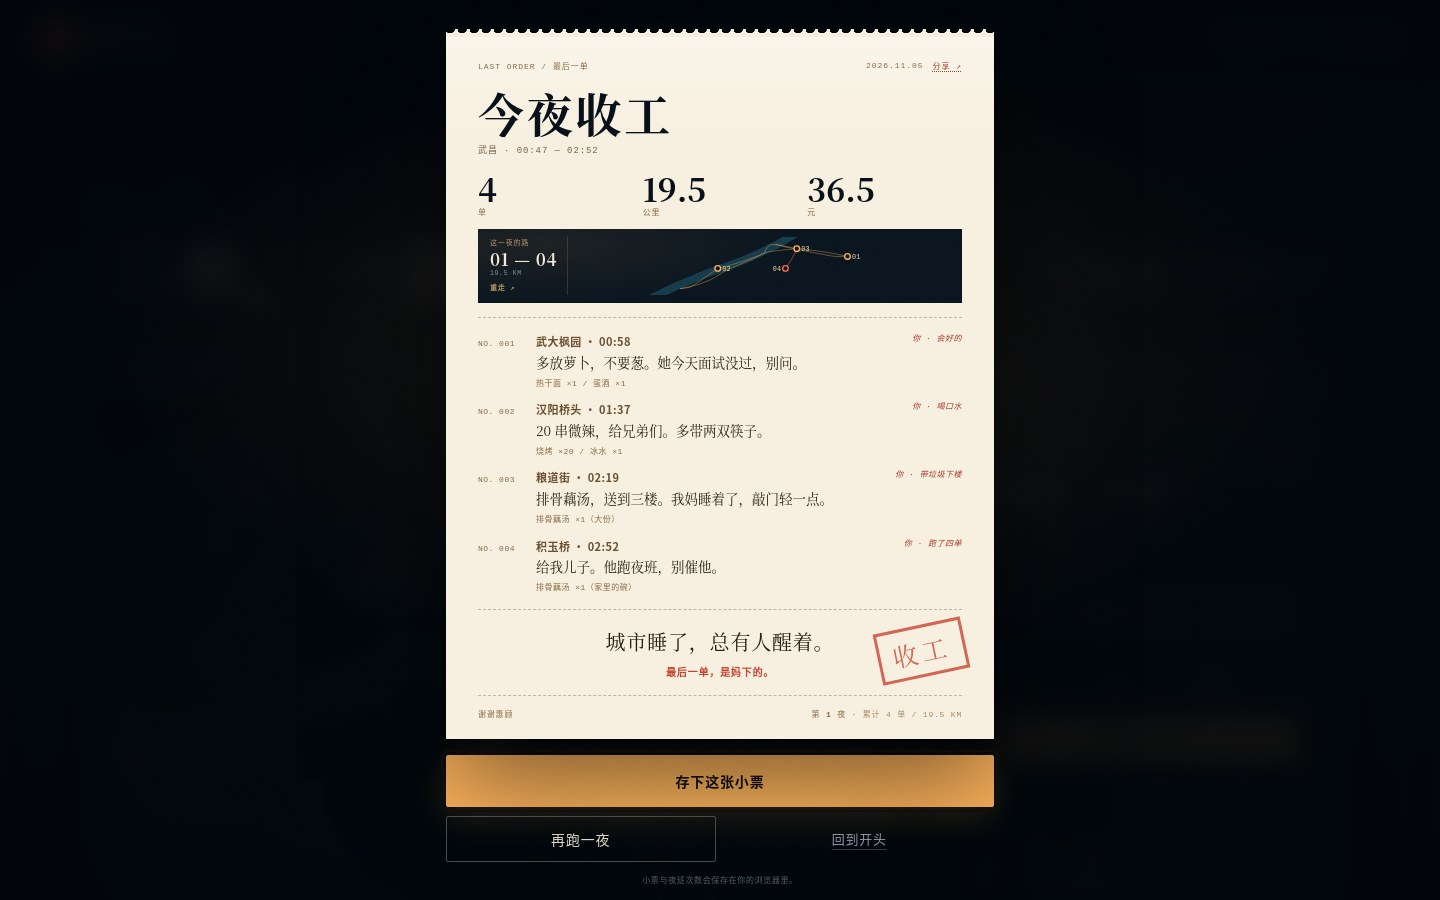
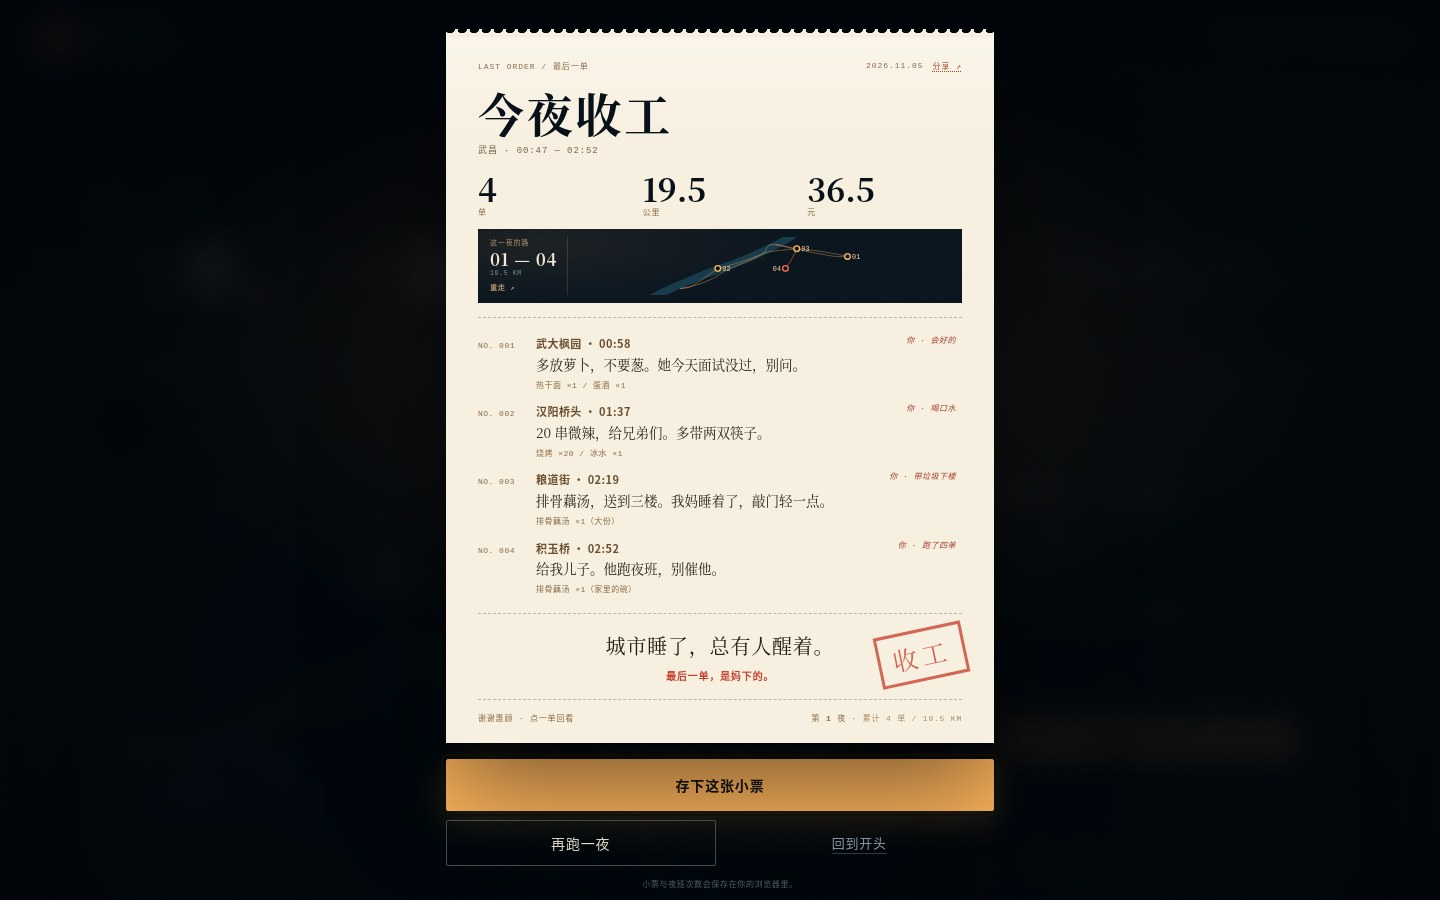
feat: 收工纸票四单可点回看对应小票

diff --git a/assets/js/app.js b/assets/js/app.js
@@ -1054,10 +1054,12 @@
     renderSummaryRoute();
 
     el.summaryTickets.innerHTML = tickets.map(function (t) {
-      return '<li><span class="r-no">' + escape(t.no) + '</span>' +
-        '<div class="r-body"><b>' + escape(t.place) + ' · ' + escape(t.time) +
+      return '<li><button class="r-row" type="button" data-order="' + escape(t.orderId) + '" ' +
+        'aria-label="回看 ' + escape(t.no) + ' · ' + escape(t.place) + ' 的小票">' +
+        '<span class="r-no">' + escape(t.no) + '</span>' +
+        '<span class="r-body"><b>' + escape(t.place) + ' · ' + escape(t.time) +
         (t.choice ? '<em class="r-choice">你 · ' + escape(t.choice) + '</em>' : '') +
-        '</b>' + escape(t.note) + '<span>' + escape(t.items) + '</span></div></li>';
+        '</b>' + escape(t.note) + '<span>' + escape(t.items) + '</span></span></button></li>';
     }).join("");
   }
 
@@ -1077,12 +1079,13 @@
     setTimeout(function () { el.saveReceipt.focus({ preventScroll: true }); }, 80);
   }
 
-  function closeSummary() {
+  function closeSummary(toOrderId) {
     stopRoutePlay();
     el.summary.hidden = true;
     state.dialog = null;
     state.phase = state.tickets.length === 4 ? "done" : "idle";
     var back = state.summaryReturn;
+    var target = typeof toOrderId === "string" ? toOrderId : null;
     state.summaryReturn = null;
     lockScroll(false);
     document.removeEventListener("keydown", onDialogKeydown);
@@ -1091,7 +1094,9 @@
     renderHeadStatus();
     updateChrome();
     syncHeroCta();
-    if (back) {
+    if (target) {
+      setTimeout(function () { revealTicket(target); }, 60);
+    } else if (back) {
       back.scrollIntoView({ block: "start", behavior: reduceMotion ? "auto" : "smooth" });
       setTimeout(function () { el.closeSummary.blur(); }, 80);
     } else {
@@ -1720,6 +1725,11 @@
     el.saveReceipt.addEventListener("click", saveReceiptImage);
     el.replayBtn.addEventListener("click", replayNight);
     el.closeSummary.addEventListener("click", closeSummary);
+    el.summaryTickets.addEventListener("click", function (ev) {
+      var row = ev.target.closest ? ev.target.closest(".r-row") : null;
+      if (!row || !el.summaryTickets.contains(row)) return;
+      closeSummary(row.getAttribute("data-order"));
+    });
     if (el.copyNight) el.copyNight.addEventListener("click", copyNightLink);
     if (el.replayRoute) el.replayRoute.addEventListener("click", playRoute);
     if (el.mapTrail) {

diff --git a/assets/css/main.css b/assets/css/main.css
@@ -1640,8 +1640,24 @@ html.is-locked, html.is-locked body { overflow: hidden; }
 }
 
 .receipt-divider { margin: 14px 0; border-top: 1px dashed rgba(70, 48, 25, .3); }
-.receipt-list { display: flex; flex-direction: column; gap: 10px; }
-.receipt-list li { display: grid; grid-template-columns: 48px 1fr; gap: 10px; align-items: baseline; }
+.receipt-list { display: flex; flex-direction: column; gap: 6px; }
+.receipt-list li { display: block; }
+.receipt-list .r-row {
+  display: grid;
+  grid-template-columns: 48px 1fr;
+  gap: 10px;
+  align-items: baseline;
+  width: 100%;
+  padding: 2px 6px 2px 0;
+  border: 0;
+  background: transparent;
+  text-align: left;
+  cursor: pointer;
+  border-radius: 2px;
+}
+.receipt-list .r-row:hover { background: rgba(140, 100, 60, .07); }
+.receipt-list .r-row:focus-visible { outline: 1px dashed #8a6a45; outline-offset: 2px; }
+.receipt-list .r-row:hover .r-body b { color: #8c2f22; }
 .receipt-list .r-no { font-family: var(--mono); font-size: 8px; letter-spacing: .06em; color: #8a6a45; white-space: nowrap; }
 .receipt-list .r-body { font-family: var(--serif); font-size: 13.5px; line-height: 1.7; color: #2a2118; }
 .receipt-list .r-body b { display: block; font-family: var(--sans); font-size: 11px; font-weight: 600; color: #6a4e30; letter-spacing: .04em; }

diff --git a/index.html b/index.html
@@ -696,7 +696,7 @@
         <p class="receipt-subline is-personal" id="summarySubline">最后一单，是回家。</p>
         <div class="receipt-stamp" aria-hidden="true">收工</div>
         <div class="receipt-foot">
-          <span>谢谢惠顾</span>
+          <span>谢谢惠顾 · 点一单回看</span>
           <span>第 <b id="summaryNight">1</b> 夜 · <i id="summaryTotal">累计 4 单 / 19.5 KM</i></span>
         </div>
       </div>

diff --git a/README.md b/README.md
@@ -84,6 +84,7 @@
 - **再跑一夜**：回到第一单，清空地图上的旧路网；小票重新盖上「未送达」，上一夜仍留在浏览器里。刷新后的地图面板上，这颗按钮也走同一条重置路径，不会带着旧路网直接开工。每收一次工，纸票页脚会把「第 N 夜」与累计账本（累计单数 / 公里）一起写进 `localStorage`，跑得越多次，这本夜班账越厚。
 - **回到首屏**：收工或刷新后，首屏不再喊「接单，出发」，而是写「上一夜 · 02:52 收工」，主按钮变成「翻看这一夜」。点它直接翻回四张小票，不清空存档；想重跑，从纸票里选「再跑一夜」。
 - **再看小票**：收工纸票关掉后不必刷新——地图面板的主按钮会变成「翻看收工小票」，纸面区标题旁也留着一枚「再看收工小票 ↗」；关掉后回到打开它的位置。
+- **纸票回看**：收工纸票上的四单本身也是目录——点任意一单，纸票关掉并翻回对应的小票，高亮 1.9 秒；页脚写着「点一单回看」，不必先关纸票再去找。
 - **分享一夜**：收工纸票的页眉有一枚「分享 ↗」，可复制这一夜的链接。链接只带「第几夜 + 四个门口选择」，形如 `?night=1&c=0101`。朋友打开即还原同一张小票、同一条路网与 SHARED 标记；这是只读视图，不会覆盖对方浏览器里的存档。手机点「分享」优先唤起系统分享面板；剪贴板不可用时给出可手动复制的真实链接，而不是让人去复制不含参数的地址栏。
 - **听雨**：首屏的「声音」默认写「雨声 · 可开启」。点一下，四根竖线开始起伏，雨声与江面低频淡入；再点一下回到静音。刷新后回到静音，避免浏览器自动播放。
 
@@ -111,7 +112,7 @@ python3 -m http.server 8080 &
 node scripts/regression.mjs
 ```
 
-脚本会检查 1920 / 1440 / 720 / 390 四档的横向溢出，在 1440 与 390 各跑完一整夜（接单 → 跳过骑行 → 场景 → 二选一 → 小票 → 回家加单 → 收工小票 → 再跑一夜），断言地图面板、场景层、小票上的选择、轨迹累积与 01–04 送达点、收工纸票上的 6 段路网存根与三颗按钮在首屏内（390 上按钮常驻屏幕内、纸票内部可滚动）、顶栏时间 / 电量 / 四格进度、刷新后的存档路网与收工态、分享链接还原且不改本地存档、环境声默认静音 / 点开 / 可逆、localStorage 与控制台；另跑 1440×720 矮横屏、360×640 / 390×667 矮屏手机与 320×568 最小屏首屏断言（320 下路线条字号 ≥ 8px 且五站完整留在第一屏），并复核锚点落到纸面时顶栏切换纸色。截图输出到 `/tmp/lastorder-shots`。若 Chrome 不在常见路径，用 `CHROME=/path/to/chrome node scripts/regression.mjs` 指定；只跑移动端可加 `ONLY=mobile`，只跑桌面完整一夜可加 `ONLY=desktop`。
+脚本会检查 1920 / 1440 / 720 / 390 四档的横向溢出，在 1440 与 390 各跑完一整夜（接单 → 跳过骑行 → 场景 → 二选一 → 小票 → 回家加单 → 收工小票 → 再跑一夜），断言地图面板、场景层、小票上的选择、轨迹累积与 01–04 送达点、收工纸票上的 6 段路网存根与三颗按钮在首屏内（390 上按钮常驻屏幕内、纸票内部可滚动）、顶栏时间 / 电量 / 四格进度、刷新后的存档路网与收工态、分享链接还原且不改本地存档、收工纸票四单可点回看、环境声默认静音 / 点开 / 可逆、localStorage 与控制台；另跑 1440×720 矮横屏、360×640 / 390×667 矮屏手机与 320×568 最小屏首屏断言（320 下路线条字号 ≥ 8px 且五站完整留在第一屏），并复核锚点落到纸面时顶栏切换纸色。截图输出到 `/tmp/lastorder-shots`。若 Chrome 不在常见路径，用 `CHROME=/path/to/chrome node scripts/regression.mjs` 指定；只跑移动端可加 `ONLY=mobile`，只跑桌面完整一夜可加 `ONLY=desktop`。
 
 ### 体积预算
 

diff --git a/STATE.md b/STATE.md
@@ -90,6 +90,7 @@
 - [x] 收工纸票页脚记下跨夜累计账本：累计单数 / 公里随每次收工累加，PNG 同步；分享态不写本地账（第 49 轮）
 - [x] 真实 Chrome 129 全量走查：Chrome for Testing 129.0.6668.100 headless 跑通全量回归（1920 / 1440 / 720 / 390、1440×720、320 / 360 / 390 矮屏、390 完整一夜；第 50 轮）
 - [x] 场景脚注桌面文案与地图 01–04 键盘焦点环（第 51 轮）
+- [x] 收工纸票四单可点回看：关票、翻到对应小票并高亮；页脚「点一单回看」（第 52 轮）
 - [ ] 真实手机走查（真机触控、系统分享面板、环境声响度）
 - [x] `scripts/pack.sh` 实跑：完整版含 progress，匿名版无占位符/个人信息，两个 zip 可直接打开
 
@@ -188,6 +189,8 @@
 
 第 51 轮收了一处可读性细节：桌面场景层的脚注从「上下滑动阅读」改为「点选一句话 · 选择会留在小票上」（桌面并不需要滚动），地图 01–04 的键盘焦点补了一圈琥珀虚线外环，只在 `:focus-visible` 出现，触控与鼠标不受影响。
 
-**下一步**：① 真实手机走查并记录（触控热区、系统分享面板、环境声响度）；② 可选：第二夜换一组订单（累计账本已先给重复跑夜一个理由）；③ 路网存根可加取餐 / 送达图例或比例尺，但需先确认不把小票撑高；④ 地图点的键盘焦点环与触控热区（r=18）可在真机上复核；⑤ 小票区的「再看小票」可考虑加一枚纸票缩略图入口；⑥ 环境声可在真机上复核响度与音色，再决定是否加音量滑杆；⑦ 决定 `shichen/` 是继续留在线上，还是移出仓库单独归档；⑧ 地图内跳过胶囊可在真机复核触控热区与遮挡；⑨ 可考虑把「取餐完成 / 已送达」提示也做成地图内轻提示，减少对面板的依赖。
+第 52 轮把收工纸票的四单变成目录：纸票里的每一行改成原生按钮，点任意一单先收起纸票，再复用 `revealTicket()` 翻回「今夜的小票」中对应那张并高亮 1.9 秒；页脚从「谢谢惠顾」改为「谢谢惠顾 · 点一单回看」作为可发现性提示。新增回归断言「四单都是按钮且标签可读」「点第 2 单后纸票关闭、小票入视口、高亮且获得焦点」「从小票区可再次翻回纸票」；`ONLY=desktop` 全量通过，收工三颗按钮底边 866（≤886）。
+
+**下一步**：① 真实手机走查并记录（触控热区、系统分享面板、环境声响度、纸票四行的触控热区）；② 可选：第二夜换一组订单（累计账本已先给重复跑夜一个理由）；③ 路网存根可加取餐 / 送达图例或比例尺，但需先确认不把小票撑高；④ 地图点的键盘焦点环与触控热区（r=18）可在真机上复核；⑤ 小票区的「再看小票」可考虑加一枚纸票缩略图入口；⑥ 环境声可在真机上复核响度与音色，再决定是否加音量滑杆；⑦ 决定 `shichen/` 是继续留在线上，还是移出仓库单独归档；⑧ 地图内跳过胶囊可在真机复核触控热区与遮挡；⑨ 可考虑把「取餐完成 / 已送达」提示也做成地图内轻提示，减少对面板的依赖。
 
 > 旧版《等一碗》的完整实现保留在 git 历史中；当前工作树的主站只保留新版，`shichen/` 为不入包的队内另册。

diff --git a/docs/design.md b/docs/design.md
@@ -96,6 +96,7 @@
 - 「再跑一夜」保留已完成的夜数与上一夜小票，当前这一夜重新开始；刷新后，上一夜仍在「今夜的小票」里，地图时钟、接单面板与 LIVE / ARCHIVE 标签同步切到 02:52 的收工态。刷新态的「再跑一夜」与首屏入口共用 `resetRun()`，先清空旧路网再上线；这是第 37 轮修掉的一处状态缺口。
 - 首屏也会跟着状态改写：存档态下，副标题变成「上一夜 · 02:52 收工」，导语改成「四张小票还在桌上，那条路也记得」，主按钮成为「翻看这一夜」并直接打开纸票（`syncHeroCta()`）。这样刷新后第一屏、地图面板与纸票三处说的是同一件事；重跑仍只从纸票的「再跑一夜」进入，避免在首屏一键抹掉上一夜。
 - 收工纸票不是一次性的：关掉后，地图面板的主按钮变成「翻看收工小票」，纸面区标题旁也有「再看收工小票 ↗」。两条入口都走同一个 `openSummary()`，从 `state` 或 `store.last` 取四张票与四次选择，因此刚收工和刷新后的存档都能重读；关闭时回到打开它的区块，而不是一律跳回页首。
+- 纸票里的四张留言同时是目录：每一行是一颗原生按钮，点它会把纸票收起并翻回「今夜的小票」里对应那张，用与地图编号相同的 `revealTicket()` 滚到视口中央并高亮 1.9 秒。页脚以「点一单回看」提示，键盘 Tab / Enter 同样可用；这样收尾与纸面互为索引，而不是只能从纸票退出整段叙事。
 - 存档态原本只恢复了路网，没有恢复 `state.choices`；第 37 轮把「翻回小票」接上后，落款改为从票面同源的 `choices` 读取，刷新后仍显示当时第四单选择的「是妈下的」/「是回家」。
 - 分享链接不序列化整张小票，只序列化四位选择（每单一位，`0` / `1`）；小票文案仍从 `data.js` 读取，因此链接短、可手抄，也不会把旧文案冻进存档。分享按钮在触屏设备优先走 `navigator.share` 系统面板，取消分享不重复复制；桌面走 `navigator.clipboard`，非安全上下文退回 `textarea + execCommand`，两者都失败时弹出真实链接（地址栏不含 `?night&c`，不再让人复制地址栏）；打开分享链接时只填充内存里的 `store`，不写 `localStorage`，点「再跑一夜」即清掉分享态与查询参数。
 - 页面顶部有一条 2px 的阅读进度条；场景或收工浮层打开时，它通过 `body:has(...)` 淡出——浮层属于「这一单」，不属于整页的滚动位置。纸票的内边距同时压紧 35px，1440×900 下三颗按钮的底边从 899 退到 862，纸票不再贴着视口底边。手机上的收工层改为纸票内部滚动、三颗按钮常驻屏幕内：390×844 下「再跑一夜 / 回到开头」不再落到屏幕外，朱红「收工」印也从视窗底边改为随纸票内容走到落款之后。

diff --git a/progress/2026-11-06.md b/progress/2026-11-06.md
@@ -170,3 +170,10 @@
 - 做了什么：桌面场景脚注改为「点选一句话 · 选择会留在小票上」；`.trail-stop:focus-visible .ts-hit` 增加一圈琥珀虚线外环，只在键盘聚焦时出现，触控与鼠标不受影响。
 - 验证：本地静态服务起站，`node -e` 断言两处改动都在；纯文案 + CSS，未改数据与流程。
 - 遗留：真机触控与键盘走查仍未做；第二夜订单仍固定。
+
+# 2026-11-06 · 第 52 轮
+
+- 目标：把收工纸票上的四单从「陈列」变成「目录」，让收尾与「今夜的小票」互相索引。
+- 做了什么：`renderSummary()` 的每一行改为原生按钮（带「回看 NO.00X · 地点 的小票」标签）；新增 `closeSummary(orderId)` 分支，收起纸票后复用 `revealTicket()` 翻到对应小票并高亮；页脚改为「谢谢惠顾 · 点一单回看」，补 hover / focus-visible 样式。
+- 验证：新增「四单都是按钮」「点第 2 单关闭纸票 / 入视口 / 高亮 / 聚焦」「从小票区再次翻回纸票」三条断言；`ONLY=desktop` 与 `ONLY=mobile` 均全量通过，桌面纸票按钮底边 866、390 收工按钮底边 811。
+- 遗留：真实手机触控热区与系统分享面板仍未复核。

diff --git a/BACKLOG.md b/BACKLOG.md
@@ -54,6 +54,7 @@
 - [x] 390 接单后自动把地图滚到眼前，骑行动画不落在屏幕外（第 47 轮）
 - [x] 地图顶部「跳过骑行」胶囊：手机自动滚图后不用回滚，随骑行态出现 / 收起（第 48 轮）
 - [x] 桌面场景脚注改为「点选一句话」；地图 01–04 键盘焦点补琥珀虚线外环（第 51 轮）
+- [x] 收工纸票四单可点回看：点一单收起纸票、翻到对应小票并高亮；页脚提示（第 52 轮）
 
 ## P2 · 功能 20
 
@@ -100,6 +101,7 @@
 - [x] 顶栏纸色态计算色断言：导航 `rgb(68,57,43)`、头栏亮度 < 90（第 39 轮）
 - [x] 真实 Chrome 129 全量回归：129.0.6668.100 跑通四尺寸 + 完整一夜 + 矮屏首屏（第 50 轮）
 - [x] 地图 01–04 键盘焦点环断言（`focus-visible` 时 `.ts-hit` 出现虚线环）（第 51 轮）
+- [x] 收工纸票四单按钮、第 2 单回看落点 / 高亮 / 焦点、再次翻回纸票断言（第 52 轮）
 - [ ] 真实手机走查（触控热区 / 系统分享 / 环境声响度）
 - [x] 收工纸票路网存根与按钮首屏断言（第 30 轮）
 - [x] 981–1100px 窄桌面顶栏三组占位实拍复核（981 / 1000px 不重叠）
